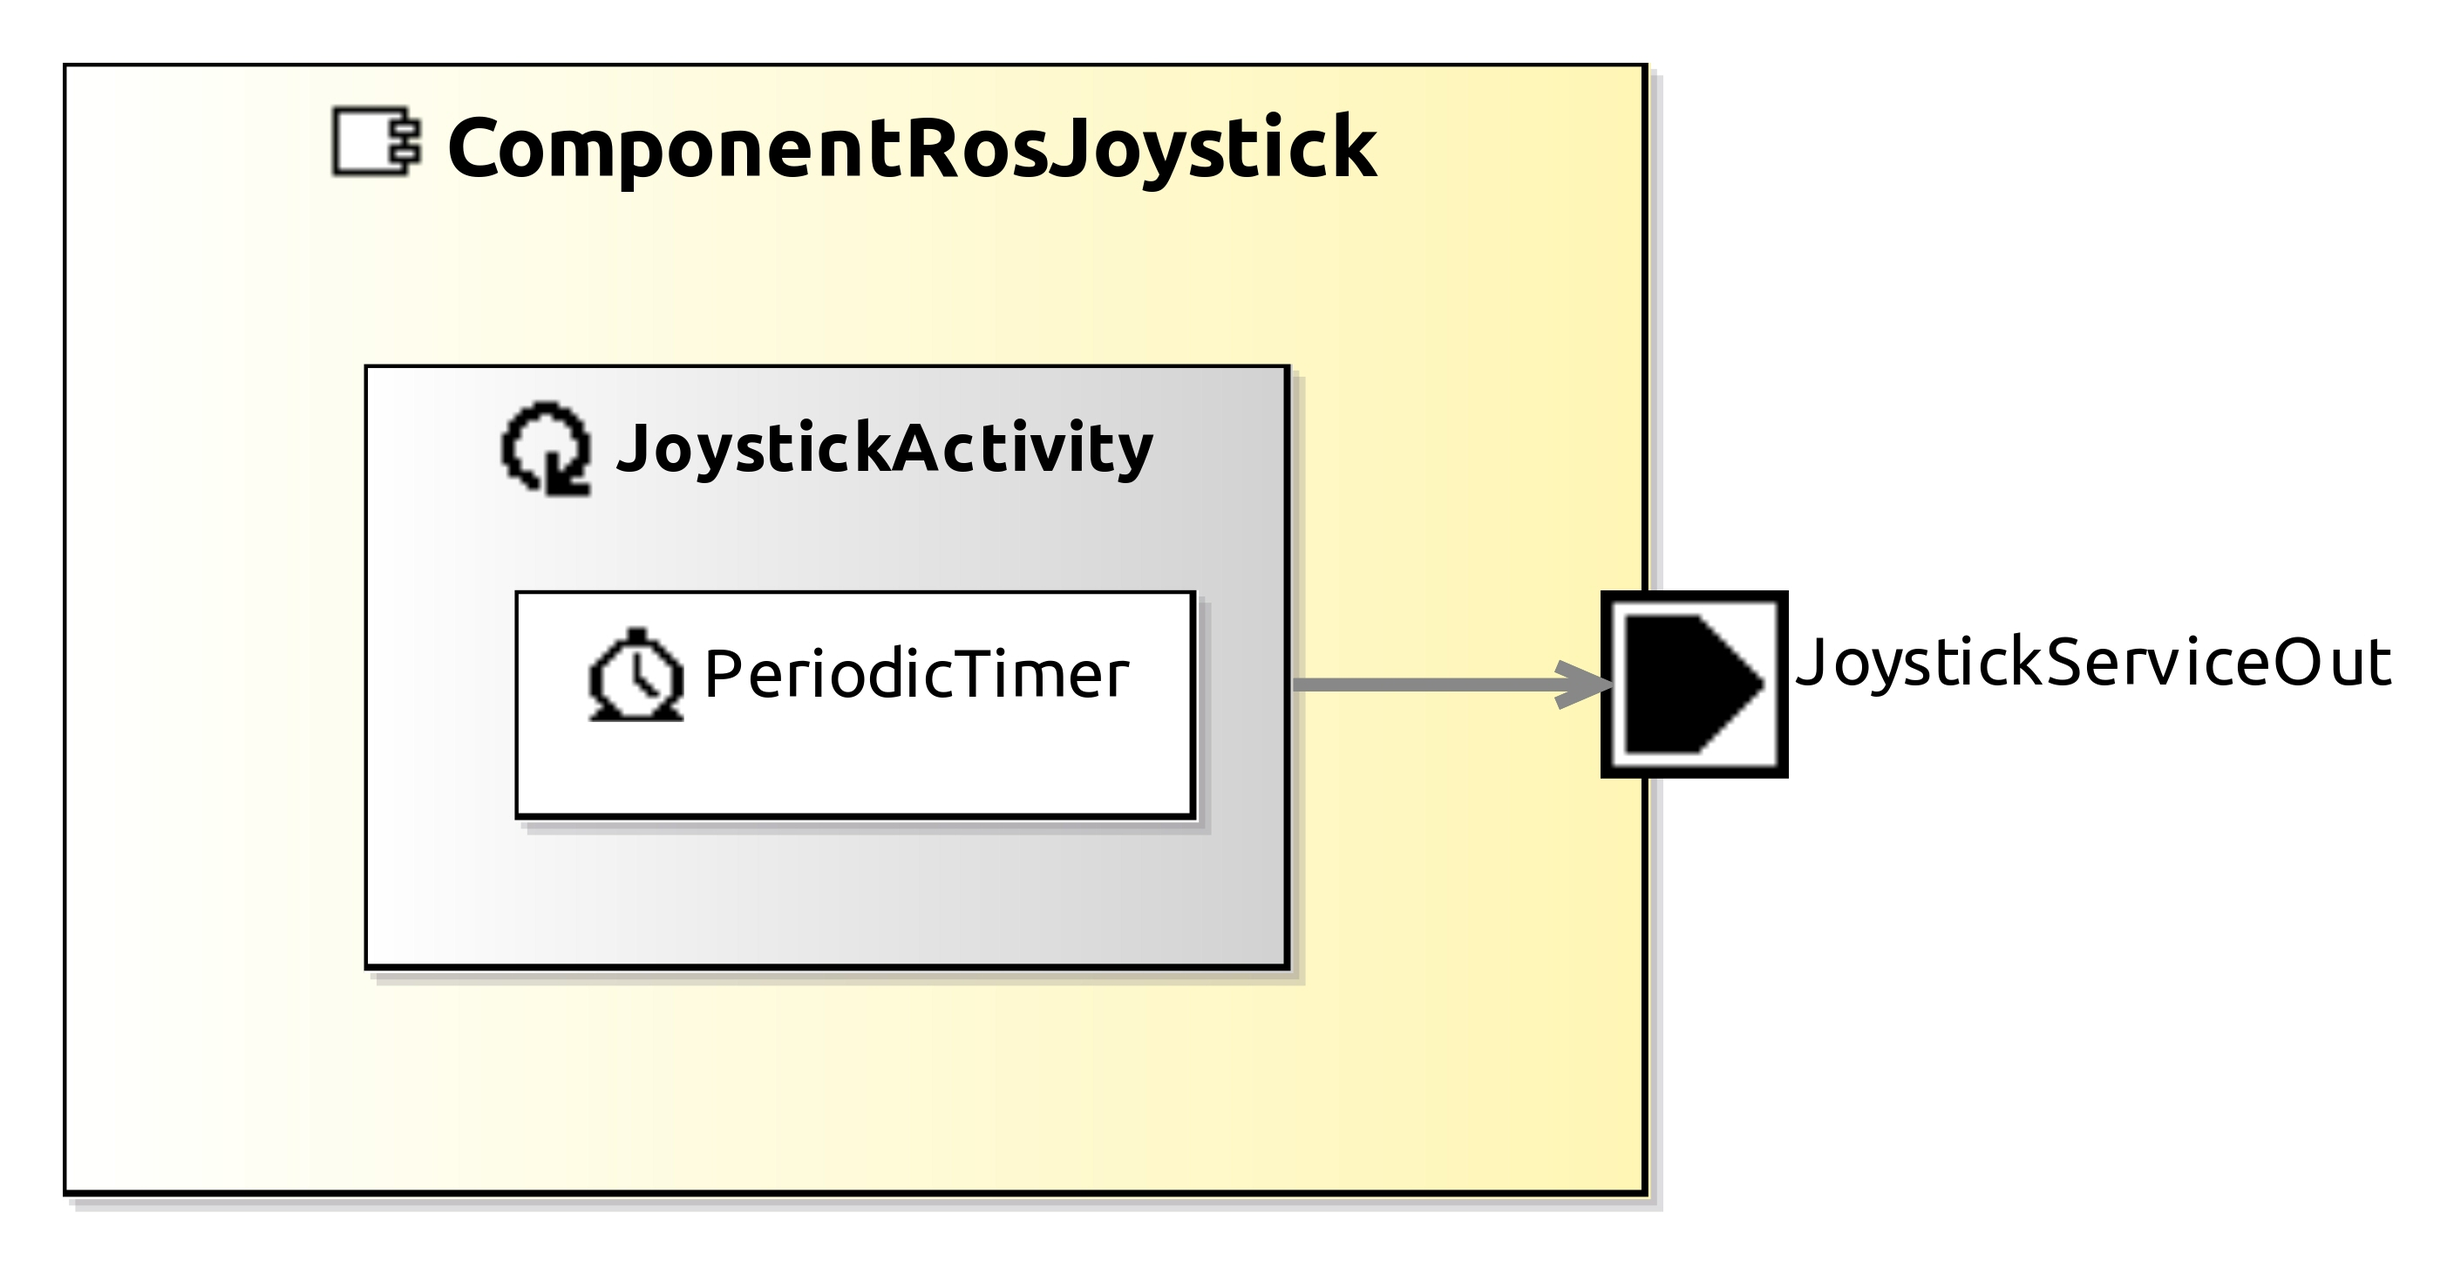
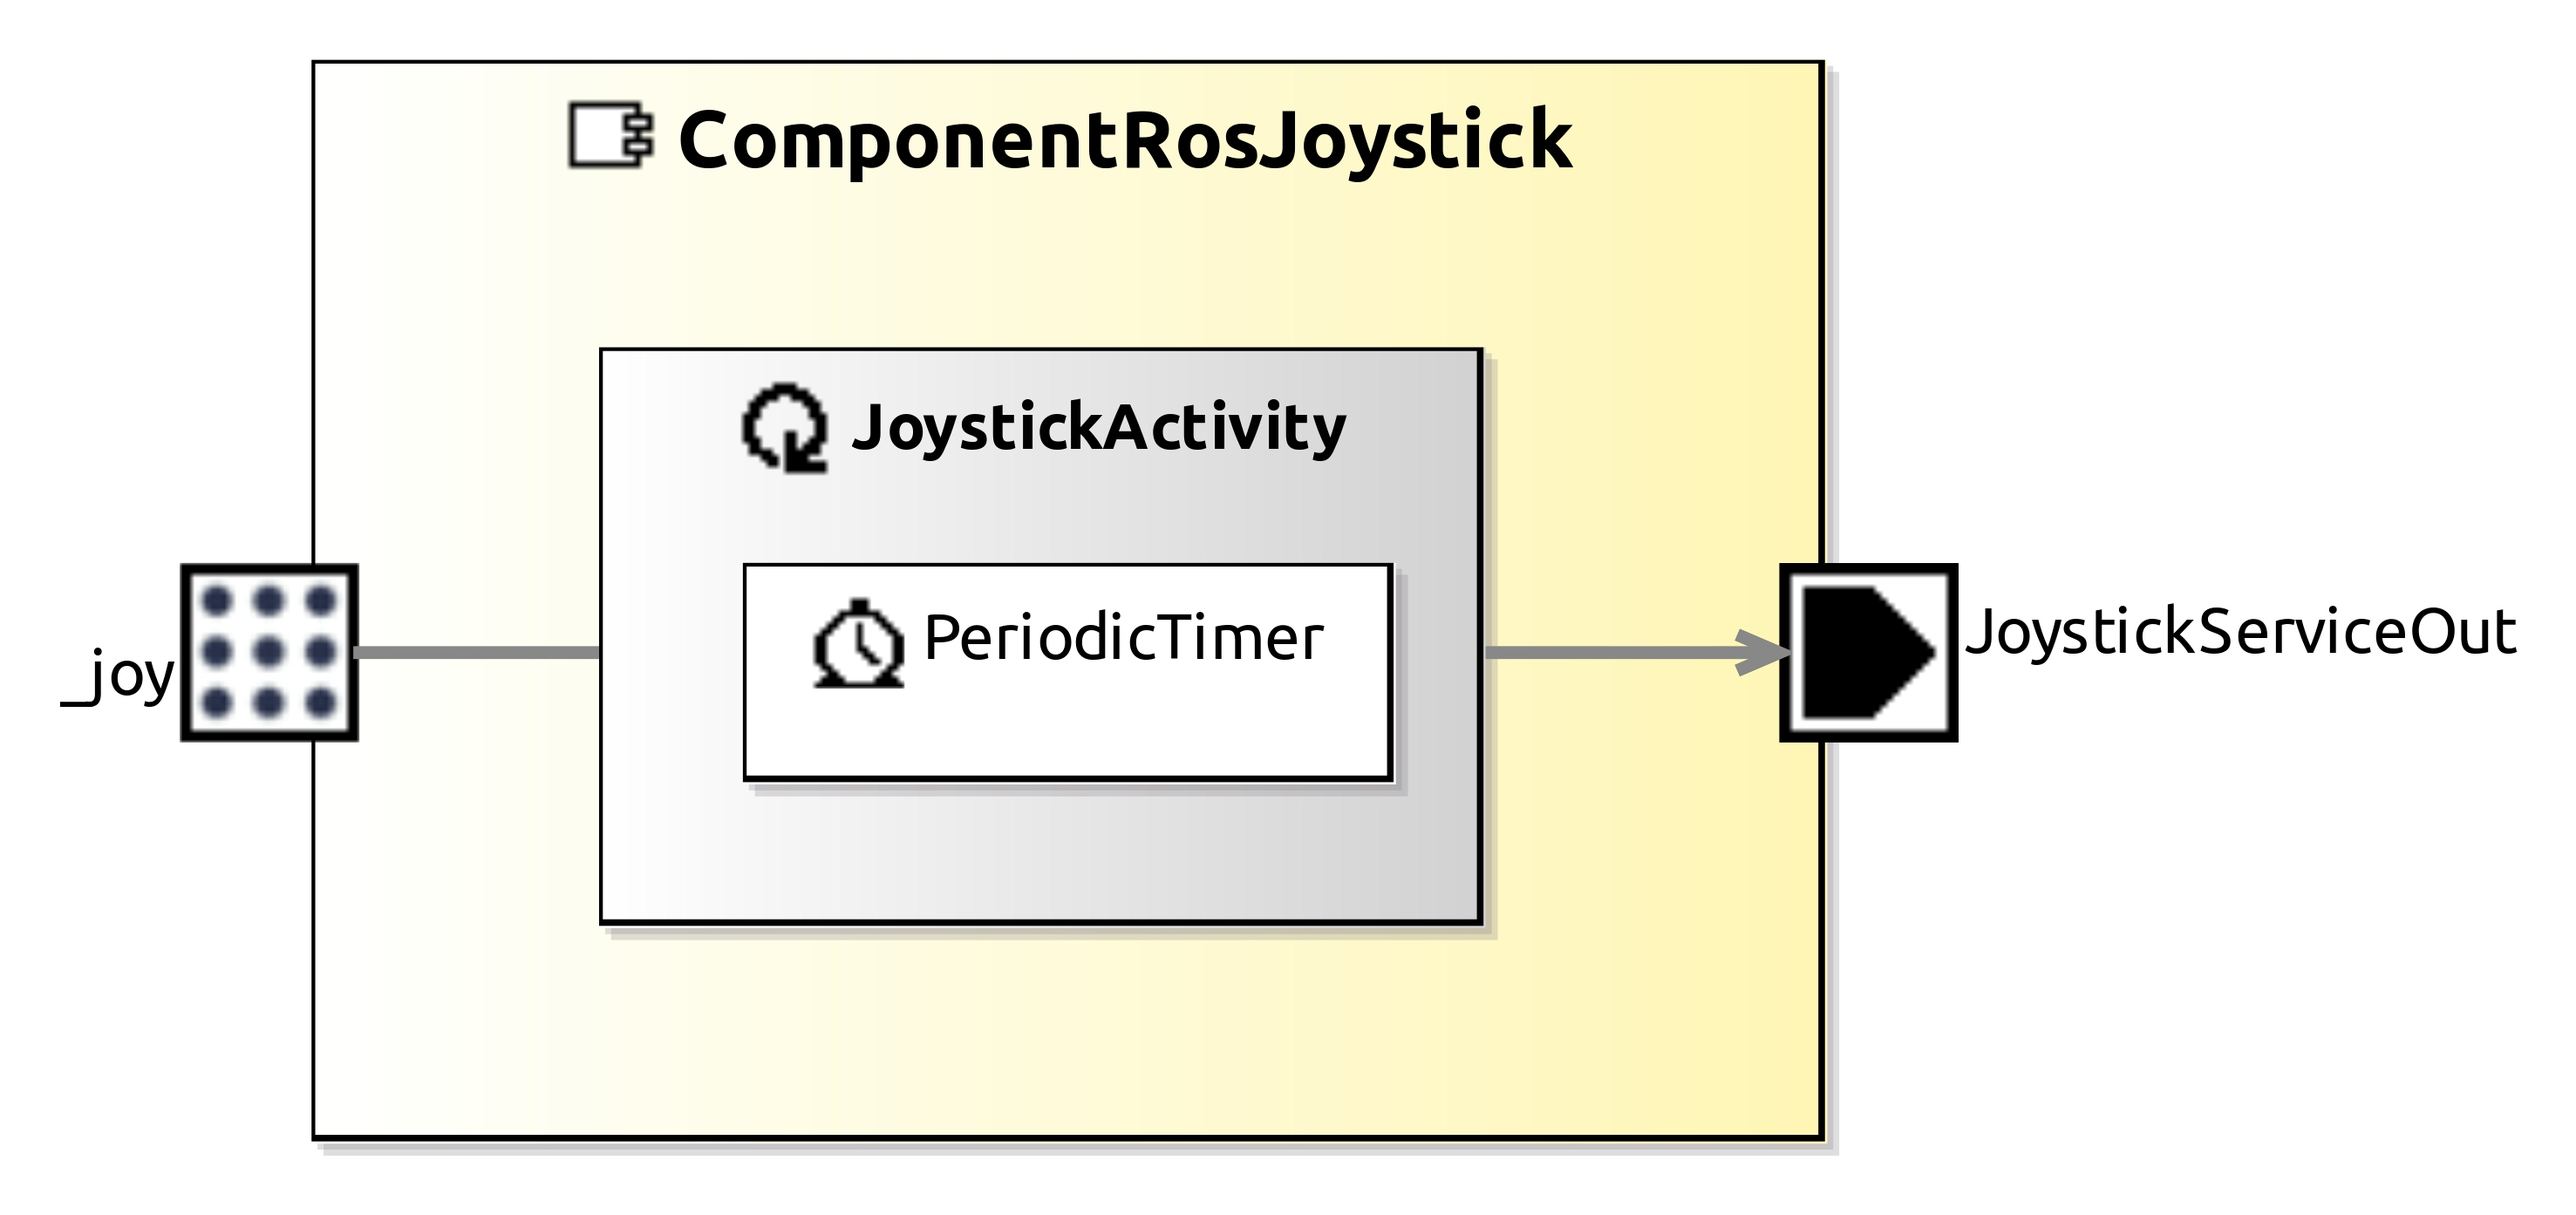
update ROS Joystick example

diff --git a/ROS-MixedPort-Examples/ComponentRosJoystick/smartsoft/src-gen/ComponentRosJoystick.cc b/ROS-MixedPort-Examples/ComponentRosJoystick/smartsoft/src-gen/ComponentRosJoystick.cc
@@ -34,6 +34,7 @@ ComponentRosJoystick::ComponentRosJoystick()
 	joystickActivity = NULL;
 	joystickActivityTrigger = NULL;
 	joystickServiceOut = NULL;
+	//_joy = NULL;
 	stateChangeHandler = NULL;
 	stateSlave = NULL;
 	wiringSlave = NULL;
@@ -58,8 +59,6 @@ ComponentRosJoystick::ComponentRosJoystick()
 	// initialize members of ComponentRosJoystickROSExtension
 	rosPorts = 0;
 	
-	// initialize members of SeRoNetSDKComponentGeneratorExtension
-	
 	// initialize members of PlainOpcUaComponentRosJoystickExtension
 	
 }
@@ -72,6 +71,11 @@ void ComponentRosJoystick::addPortFactory(const std::string &name, ComponentRosJ
 void ComponentRosJoystick::addExtension(ComponentRosJoystickExtension *extension)
 {
 	componentExtensionRegistry[extension->getName()] = extension;
+}
+
+SmartACE::SmartComponent* ComponentRosJoystick::getComponentImpl()
+{
+	return dynamic_cast<ComponentRosJoystickAcePortFactory*>(portFactoryRegistry["ACE_SmartSoft"])->getComponentImpl();
 }
 
 /**
@@ -144,8 +148,6 @@ void ComponentRosJoystick::init(int argc, char *argv[])
 		
 		// initializations of ComponentRosJoystickROSExtension
 		
-		// initializations of SeRoNetSDKComponentGeneratorExtension
-		
 		// initializations of PlainOpcUaComponentRosJoystickExtension
 		
 		
@@ -216,7 +218,7 @@ void ComponentRosJoystick::init(int argc, char *argv[])
 			if(microseconds > 0) {
 				Smart::TimedTaskTrigger *triggerPtr = new Smart::TimedTaskTrigger();
 				triggerPtr->attach(joystickActivity);
-				component->getTimerManager()->scheduleTimer(triggerPtr, std::chrono::microseconds(microseconds), std::chrono::microseconds(microseconds));
+				component->getTimerManager()->scheduleTimer(triggerPtr, (void *) 0, std::chrono::microseconds(microseconds), std::chrono::microseconds(microseconds));
 				// store trigger in class member
 				joystickActivityTrigger = triggerPtr;
 			} else {
@@ -235,7 +237,7 @@ void ComponentRosJoystick::init(int argc, char *argv[])
 			Smart::TimedTaskTrigger *triggerPtr = new Smart::TimedTaskTrigger();
 			int microseconds = 1000*1000 / 10.0;
 			if(microseconds > 0) {
-				component->getTimerManager()->scheduleTimer(triggerPtr, std::chrono::microseconds(microseconds), std::chrono::microseconds(microseconds));
+				component->getTimerManager()->scheduleTimer(triggerPtr, (void *) 0, std::chrono::microseconds(microseconds), std::chrono::microseconds(microseconds));
 				triggerPtr->attach(joystickActivity);
 				// store trigger in class member
 				joystickActivityTrigger = triggerPtr;
@@ -306,8 +308,10 @@ void ComponentRosJoystick::fini()
 	// destroy all task instances
 	// unlink all UpcallManagers
 	// unlink the TaskTrigger
-	joystickActivityTrigger->detach(joystickActivity);
-	delete joystickActivity;
+	if(joystickActivityTrigger != NULL){
+		joystickActivityTrigger->detach(joystickActivity);
+		delete joystickActivity;
+	}
 
 	// destroy all input-handler
 
@@ -342,8 +346,6 @@ void ComponentRosJoystick::fini()
 	}
 	
 	// destruction of ComponentRosJoystickROSExtension
-	
-	// destruction of SeRoNetSDKComponentGeneratorExtension
 	
 	// destruction of PlainOpcUaComponentRosJoystickExtension
 	
@@ -447,8 +449,6 @@ void ComponentRosJoystick::loadParameter(int argc, char *argv[])
 		}
 		
 		// load parameters for ComponentRosJoystickROSExtension
-		
-		// load parameters for SeRoNetSDKComponentGeneratorExtension
 		
 		// load parameters for PlainOpcUaComponentRosJoystickExtension
 		
